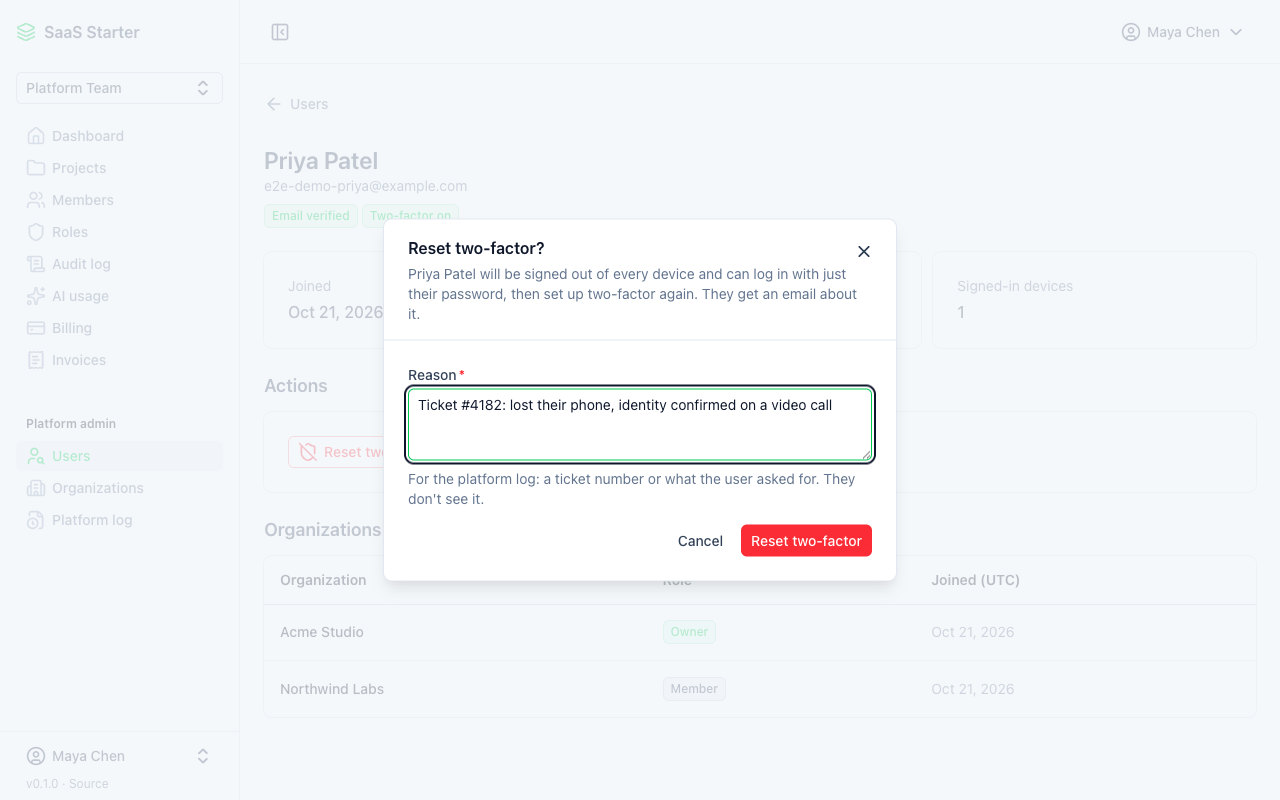
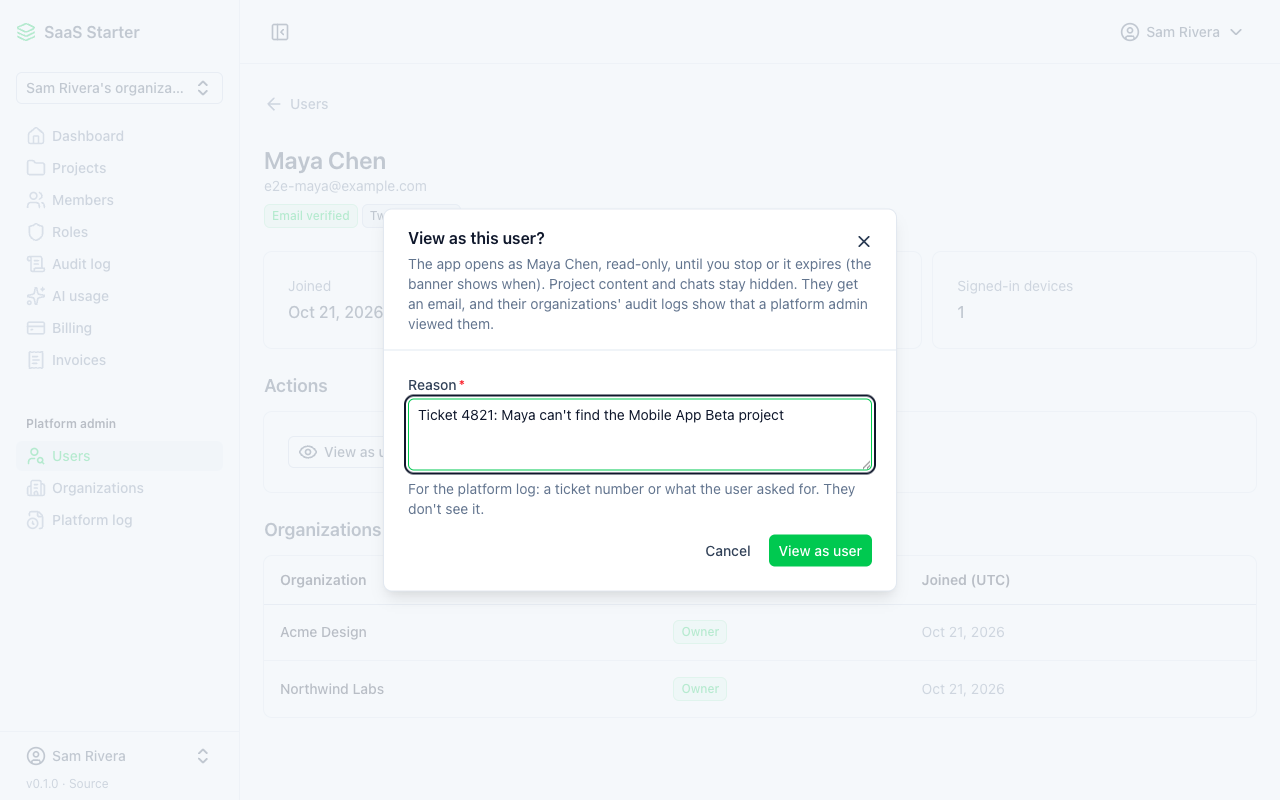
docs: view as user in the README and CLAUDE.md, with screenshots

diff --git a/README.md b/README.md
@@ -21,7 +21,7 @@ A quick tour, as a user would see it:
 6. **Pay for more.** Organizations start on **Free**. **Pro** (a monthly Stripe subscription) raises the AI budget, and one-time **AI credits** add to this month's budget on any plan. Card details, invoices and cancelling are handled on Stripe's own pages.
 7. **Manage your account.** Verify your email, reset a forgotten password, change your name, email or password, turn on two-factor authentication with an authenticator app, see where you're logged in and sign out other devices, or delete your account.
 8. **See what happened.** The **audit log** records who did what and when (members, roles, projects, AI reviews, plan changes and purchases), with before and after values.
-9. **Run the platform.** People who run the app (platform admins, made from the command line) get an admin area to look up any user or organization for support: their organizations and roles, plan, AI budget, counts and members, never project content. They can also fix the usual support cases: reset a user's two-factor after a lost phone, sign them out everywhere, suspend or unsuspend them, or make a member Owner of an organization whose owners are gone. It needs two-factor authentication, and every lookup and action (with the admin's reason) is recorded in a platform log that organizations don't see; an organization's own audit log shows ownership changes as made by "Platform admin".
+9. **Run the platform.** People who run the app (platform admins, made from the command line) get an admin area to look up any user or organization for support: their organizations and roles, plan, AI budget, counts and members, never project content. They can also fix the usual support cases: reset a user's two-factor after a lost phone, sign them out everywhere, suspend or unsuspend them, or make a member Owner of an organization whose owners are gone. To see what a user sees, they can view the app as them, read-only: nothing can be changed, project content stays hidden, and the user gets an email. It needs two-factor authentication, and every lookup and action (with the admin's reason) is recorded in a platform log that organizations don't see; an organization's own audit log shows ownership changes as made by "Platform admin".
 
 ## Key ideas
 
@@ -115,6 +115,7 @@ Key settings in `api/.env`:
 | `AUDIT_RETENTION_DAYS` | `365` | Days to keep audit log entries (organization and platform); `0` keeps them forever |
 | `ADMIN_TWO_FACTOR_TTL_MINUTES` | `720` | Platform admin pages ask for a fresh two-factor code once the last one on that device is older than this |
 | `ADMIN_ACTION_TWO_FACTOR_TTL_MINUTES` | `15` | Platform admin actions (suspend, reset two-factor, ...) ask for a fresh code once the last one on that device is older than this |
+| `ADMIN_IMPERSONATION_MINUTES` | `30` | How long a platform admin's read-only "view as user" session lasts (not renewed) |
 | `BILLING_PROVIDER` | `stripe` | `fake` makes no Stripe calls: checkout goes straight back to the billing page and changes nothing |
 | `STRIPE_KEY`, `STRIPE_SECRET` | empty | Stripe API keys (test mode locally), used only by the API |
 | `STRIPE_WEBHOOK_SECRET` | empty | Signing secret of the webhook. Without it every webhook is refused, so subscriptions never sync |
@@ -223,6 +224,7 @@ Every feature, with its API endpoints and web page. This is the detailed referen
 | Billing: Free and Pro plans per organization, Pro raising the monthly AI budget. Upgrading opens Stripe Checkout; the Customer Portal changes the card, shows invoices and cancels (Pro stays until the paid period ends, and while Stripe retries a failed renewal). Invoices (plan and credits) are listed in the app, read live from Stripe (drafts left out, 20 at a time), with "View"/"Pay" and PDF links to Stripe's hosted pages. Plans come from `config/billing.php`; only the webhook changes a subscription, and plan changes are audited. AI credits: a one-time $10 pack (Stripe Checkout) adds to the AI budget for the rest of that UTC month, on any plan; granted once per paid checkout, and audited. Needs "Manage the plan, payment details and invoices" (Owner only by default) | `GET /api/billing`, `POST /api/billing/checkout`, `POST /api/billing/credits/checkout`, `POST /api/billing/portal`, `GET /api/billing/invoices`, `POST /api/stripe/webhook` (Stripe-signed) | `/billing`, `/billing/invoices` |
 | Platform admin lookups: search users (name, email) and organizations (name), 25 a page; a user's organizations, roles, devices and last activity; an organization's plan and subscription, AI budget this month, counts (members, projects, pending invitations) and members. Admins are made with `php artisan admin:grant {email}` (they need two-factor on first) / `admin:revoke`, never through the API; turning two-factor off ends admin until granted again. Admin routes answer 404 to everyone else, and need two-factor on (403 `two_factor_required`) plus a code on this device within `ADMIN_TWO_FACTOR_TTL_MINUTES` (403 `two_factor_reauth`; logging in with a code from the app counts, a recovery code doesn't). Opening a user or organization is recorded in the platform log (who, when, IP), which organizations never see; searches aren't recorded | `GET /api/admin/users`, `GET /api/admin/users/{id}`, `GET /api/admin/organizations`, `GET /api/admin/organizations/{id}`, `GET /api/admin/audit-log`; `POST /api/account/two-factor/reconfirm` (a fresh code) | "Platform admin" in the sidebar: `/admin/users`, `/admin/organizations`, `/admin/audit-log` |
 | Platform admin actions, each with a reason (10–500 characters, in the platform log only) and a code on this device within `ADMIN_ACTION_TWO_FACTOR_TTL_MINUTES`: reset a user's two-factor (signs them out everywhere and emails them), sign them out everywhere, suspend them (signed out; login, two-factor, password reset and old tokens refused with "This account is suspended") or unsuspend them, and make an existing member Owner (emailed; the organization's audit log shows "Platform admin" without the name or IP). Never on platform admins, yourself included: no admin can be made Owner this way | `POST /api/admin/users/{id}/two-factor/reset`, `POST /api/admin/users/{id}/sign-out`, `POST /api/admin/users/{id}/suspend`, `POST /api/admin/users/{id}/unsuspend`, `POST /api/admin/organizations/{id}/owners` | The Actions card on `/admin/users/{id}`; "Make Owner" in the members table on `/admin/organizations/{id}` |
+| View as a user, read-only (a reason and a fresh code, as for actions; not for platform admins, yourself, suspended users or users in no organization): the app opens as them with a banner and Stop, for `ADMIN_IMPERSONATION_MINUTES`. Every change is refused (403 `impersonation_read_only`) except switching organization, which moves only the session; project descriptions, summaries, chats and audit details stay hidden, and so do their devices. The user is emailed (without the reason), each organization viewed gets a "Platform admin viewed the app as a member" audit entry, and the platform log records the start (with the reason) and the end. The session never shows in their devices and ends if the admin loses admin or two-factor | `POST /api/admin/users/{id}/impersonate`; `POST /api/logout` ends it | "View as user" in the Actions card on `/admin/users/{id}`; the banner's "Stop viewing" |
 
 Organization routes act on the user's **current** organization (`users.current_organization_id`). Tenant-owned models use the `BelongsToOrganization` trait, so another organization's records return 404.
 
@@ -236,9 +238,13 @@ Demo data with real Claude answers (Haiku), light mode.
 
 ![Platform admin user search with unverified, suspended, two-factor and admin badges](docs/screenshots/admin-users.png)
 
-**Acting on a user**: reset their two-factor, sign them out everywhere, or suspend them, each with a reason for the platform log.
+**Acting on a user**: view the app as them, reset their two-factor, sign them out everywhere, or suspend them, each with a reason for the platform log.
 
-![Reset two-factor dialog on a user's admin page, with a reason filled in](docs/screenshots/admin-user-actions.png)
+![View as user dialog on a user's admin page, with a reason filled in](docs/screenshots/admin-user-actions.png)
+
+**Viewing as a user**: the app as they see it, read-only, with a banner to stop; project content stays hidden.
+
+![A project page viewed as a user, with the read-only banner and its content hidden](docs/screenshots/admin-view-as.png)
 
 **An organization** as an admin sees it: plan, AI budget, counts and members (with Make Owner), no project content.
 

diff --git a/CLAUDE.md b/CLAUDE.md
@@ -76,6 +76,7 @@
 - A suspended user (`users.suspended_at`, `User::isSuspended`) is refused by login, the two-factor challenge, password reset (no link is sent) and `Sanctum::authenticateAccessTokensUsing`. A new way to log in or get a token must check it too.
 - Responses use `App\Http\Resources\Admin\*`, which list every field; don't reuse `UserResource`/`OrganizationResource` there.
 - What admins look at or change goes in the platform log (`RecordPlatformAudit`, `App\Enums\PlatformAuditAction`), not an organization's audit log. Detail views are logged; list searches aren't (they hold emails).
+- "View as user" (`StartImpersonation`) issues a token for the **user** with `impersonator_id`, `expires_at` (`config('admin.impersonation_minutes')`) and its own `organization_id` (switching moves only that; `User::activeOrganization` reads it). `App\Support\Impersonation` says whether a request is one. It is read-only by default: `ReadOnlyImpersonation` sits in the `auth:sanctum` group (before throttles and bindings) and refuses every non-GET except `logout` and `organizations.switch` (by route name), so name a new route there only if it must work in a support view. Anything showing project content or private account data hides itself: `not-impersonating` on the route, or a check in the resource (`ProjectResource`, `AuditLogResource`). Device lists and "last active" leave these tokens out (`whereNull('impersonator_id')`). The Sanctum check ends the session once its admin could no longer start one. `personal_access_tokens.organization_id` is session state, not a tenant column: read it only through `User::activeOrganization()` (membership-checked), never as a filter.
 - Tests send a real token from `platformAdmin()` / `adminToken()` (`tests/Pest.php`), since `Sanctum::actingAs` has no `two_factor_at`.
 
 ## Automation conventions
